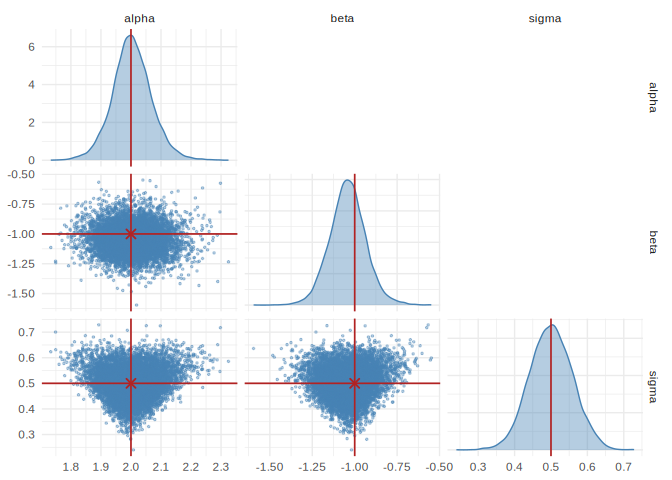
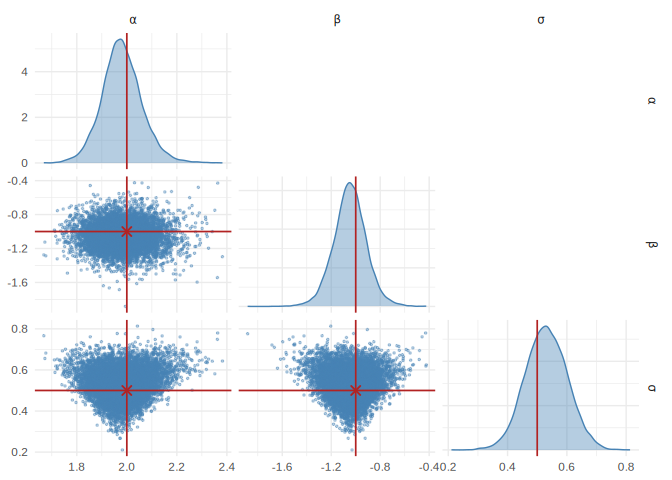
Re-render the README against the new simulator contract
The README's usage example runs at render time precisely so its output
cannot drift from its code, and the code had changed without a re-render:
the regression simulator now takes one parameter set and gets its covariate
through sim_args. The printed posterior mean and the pairwise figure are from
that run, and recover the generating coefficients (alpha 1.98 vs 2,
beta -1.05 vs -1, sigma 0.53 vs 0.5).

Also: the "Learn more" list claimed four vignettes and named four, while the
site has had six since the time-varying-beta article landed. That list is
static prose, so it is edited in both files rather than re-rendered -- the
torch weight initialization is not seeded here, so a second render would move
the numbers again for no reason.

rmarkdown::render() leaves a README.html preview next to the output; ignore
it rather than let it get committed by the next person who renders.

diff --git a/README.md b/README.md
@@ -91,7 +91,7 @@ The posterior mean recovers the coefficients that generated the data:
 rbind(truth = theta_true, posterior_mean = colMeans(draws))
 #>                   alpha      beta     sigma
 #> truth          2.000000 -1.000000 0.5000000
-#> posterior_mean 2.003668 -1.041009 0.5003288
+#> posterior_mean 1.980723 -1.047646 0.5304283
 ```
 
 ``` r
@@ -105,7 +105,8 @@ simulation-based calibration live in `vignette("diagnostics")`.
 
 ``` r
 map_estimate(post)     # posterior mode
-#> [1]  1.9989619 -1.0442036  0.4702335
+#>      alpha       beta      sigma 
+#>  1.9716464 -1.0480336  0.4950709
 ```
 
 If you’re interested in sbi in other languages or functionality not
@@ -115,37 +116,57 @@ good implementations in python and in Julia.
 
 ## Running the simulator in parallel
 
-Simulation is usually the expensive part of a fit, and it is embarrassingly parallel. Declare a [`future`](https://future.futureverse.org) plan and every function that calls your simulator — `npe()`, `simulate_for_sbi()`, `npe_sequential()`, `sbc()`, `tarp()`, `posterior_predictive()` — spreads the work across cores:
+Simulation is usually the expensive part of a fit, and it is
+embarrassingly parallel. Declare a
+[`future`](https://future.futureverse.org) plan and every function that
+calls your simulator — `npe()`, `simulate_for_sbi()`,
+`npe_sequential()`, `sbc()`, `tarp()`, `posterior_predictive()` —
+spreads the work across cores:
 
-```r
+``` r
 library(future)
 plan(multisession)
 
 fit <- npe(prior, simulator, n_simulations = 10000)
 ```
 
-There is nothing else to change: no extra argument, no parallel variant of `npe()`. Without a plan everything runs sequentially, as before. Each simulation draws from its own random-number stream, so a given `set.seed()` gives the same results on one core or on 32.
+There is nothing else to change: no extra argument, no parallel variant
+of `npe()`. Without a plan everything runs sequentially, as before. Each
+simulation draws from its own random-number stream, so a given
+`set.seed()` gives the same results on one core or on 32.
 
-Simulation and neural training both report a progress bar with an ETA — one step per simulation, then one step per training epoch. If you use [`progressr`](https://progressr.futureverse.org), `neuralsbi` speaks it natively (`handlers(global = TRUE)`); if not, it draws its own bar. See `?nsbi_parallel` and `?nsbi_progress`.
+Simulation and neural training both report a progress bar with an ETA —
+one step per simulation, then one step per training epoch. If you use
+[`progressr`](https://progressr.futureverse.org), `neuralsbi` speaks it
+natively (`handlers(global = TRUE)`); if not, it draws its own bar. See
+`?nsbi_parallel` and `?nsbi_progress`.
 
 ## Learn more
 
-The [package website](https://pedroliman.github.io/neuralsbi/) has four
+The [package website](https://pedroliman.github.io/neuralsbi/) has six
 vignettes that build on each other:
 
-1.  [Getting
+1.  [Introduction to neural
+    SBI](https://pedroliman.github.io/neuralsbi/articles/intro-to-sbi.html)
+    — what SBI is for, on a simulator whose likelihood has no closed
+    form.
+2.  [Getting
     started](https://pedroliman.github.io/neuralsbi/articles/neuralsbi.html)
     — the core prior/simulator/posterior workflow.
-2.  [Choosing a density
+3.  [Choosing a density
     estimator](https://pedroliman.github.io/neuralsbi/articles/density-estimators.html)
     — MDN, MAF, NSF, and the torch-free baseline.
-3.  [Checking the
+4.  [Checking the
     posterior](https://pedroliman.github.io/neuralsbi/articles/diagnostics.html)
     — calibration and predictive diagnostics.
-4.  [Comparison with pomp: an SIR epidemic
+5.  [Comparison with pomp: an SIR epidemic
     model](https://pedroliman.github.io/neuralsbi/articles/sir-epidemic.html)
     — neural posterior estimation and pomp’s particle-filter MCMC on the
     same stochastic epidemic.
+6.  [Amortized R(t) across all US
+    states](https://pedroliman.github.io/neuralsbi/articles/sir-time-varying-beta.html)
+    — three time-varying-beta models fit once each, then conditioned on
+    51 case curves.
 
 ## License
 
